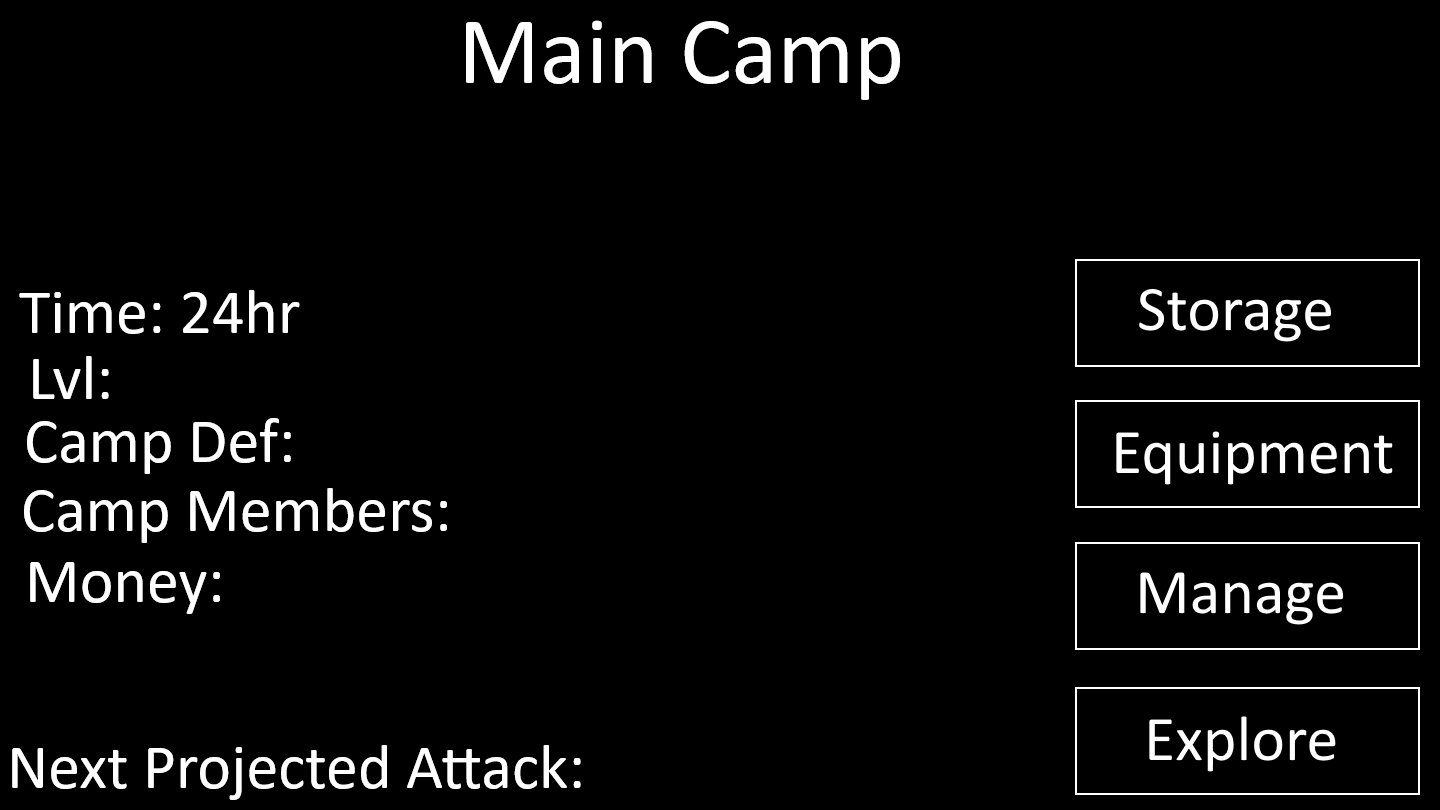
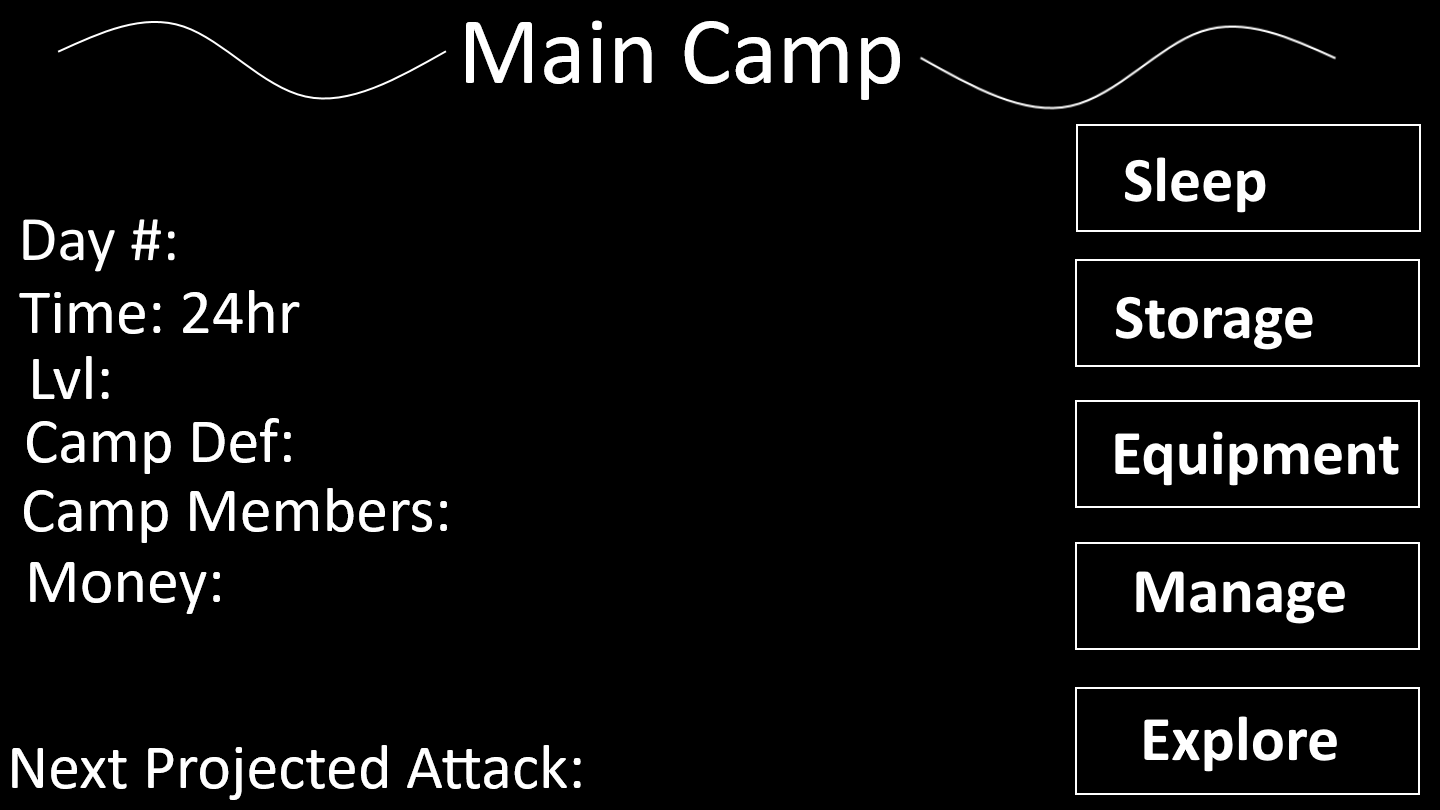
Finished basis for mainCamp Just need to fill it in now. Also updated the template with a few options I'm going to be adding.

diff --git a/Chicken3.py b/Chicken3.py
@@ -83,20 +83,33 @@ def newFrame(background):
 
 #Setting up the main game screen
 def mainCamp(oldFrame):
-    oldFrame.grid_froget()
-    frame = newFrame('black')
+    # oldFrame.grid_froget()
+
+    #Color management based on time of day
+    backgroundC = 'black'
+    if(gameClockHour >= 6 and gameClockHour < 19): # Do Daytime
+        backgroundC = 'black'
+    else: #Do Nightime
+        backgroundC = 'black'
+
+    frame = newFrame(backgroundC)
     def siwtchScreen():
         return
-    if(gameClockHour >= 6 and gameClockHour < 19):
-        return
-    #Grid Stuff
+
+    sceneTitle = tk.Label(frame,bg=backgroundC,fg='white',font=largeInfoFont,text="Main Camp")
+    
+    #Formatting
+    sceneTitle.place(x=((resX/2)-(sceneTitle.winfo_width()/2)),y=0) #Place at middle of screen, top
+    sceneTitle.update()
+    sceneTitle.place(x=((resX/2)-(sceneTitle.winfo_width()/2)),y=0) #Have to double run so that I can get size and then place it based upon its size
+    
 
 #Setting up info screen
 def startInfo(oldFrame):
     oldFrame.grid_forget()
     frame = newFrame('black')
     def switchScreen():
-        return
+        mainCamp(frame)
     
     infoLabel = tk.Label(frame,bg='black',fg='white',font=largeInfoFont,wraplength=fullScreenWrap,text="This is a sample string to reference sizing and new lines")
     startBtn = tk.Button(frame,command=switchScreen,fg='white',bg='gray50',text="Start",font=menuBtnFont,activebackground='gray36')
